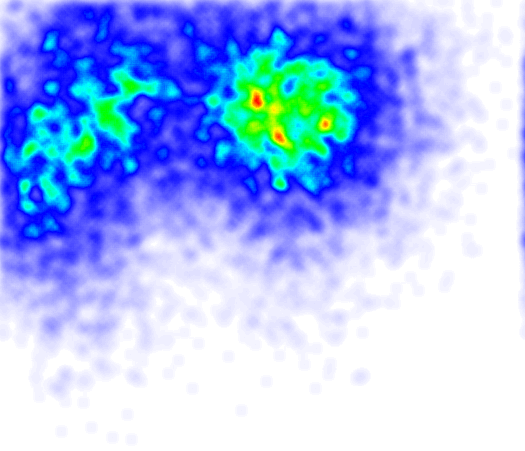
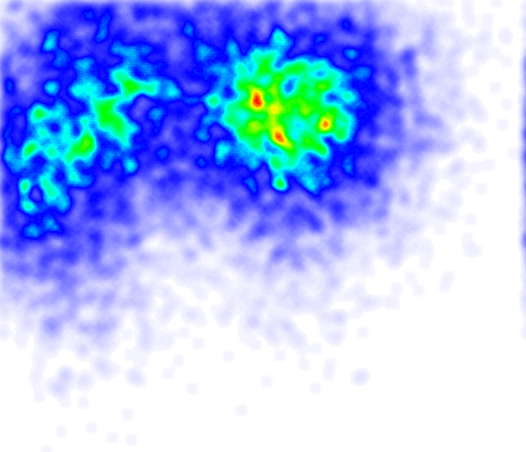
修复图片最右侧/最下侧的点未绘制的问题。

diff --git a/setup.py b/setup.py
@@ -4,7 +4,7 @@ from distutils.core import setup
 
 setup(
     name="pyheatmap",
-    version="0.1.11",
+    version="0.1.12",
     packages=["pyheatmap", "pyheatmap.inc"],
     url="https://github.com/oldj/pyheatmap",
     license="MIT",

diff --git a/pyheatmap/inc/cf.py b/pyheatmap/inc/cf.py
@@ -18,7 +18,7 @@ def get_max_size(data):
         if h > max_h:
             max_h = h
 
-    return max_w, max_h
+    return max_w + 1, max_h + 1
 
 
 def mk_circle(r, w):
